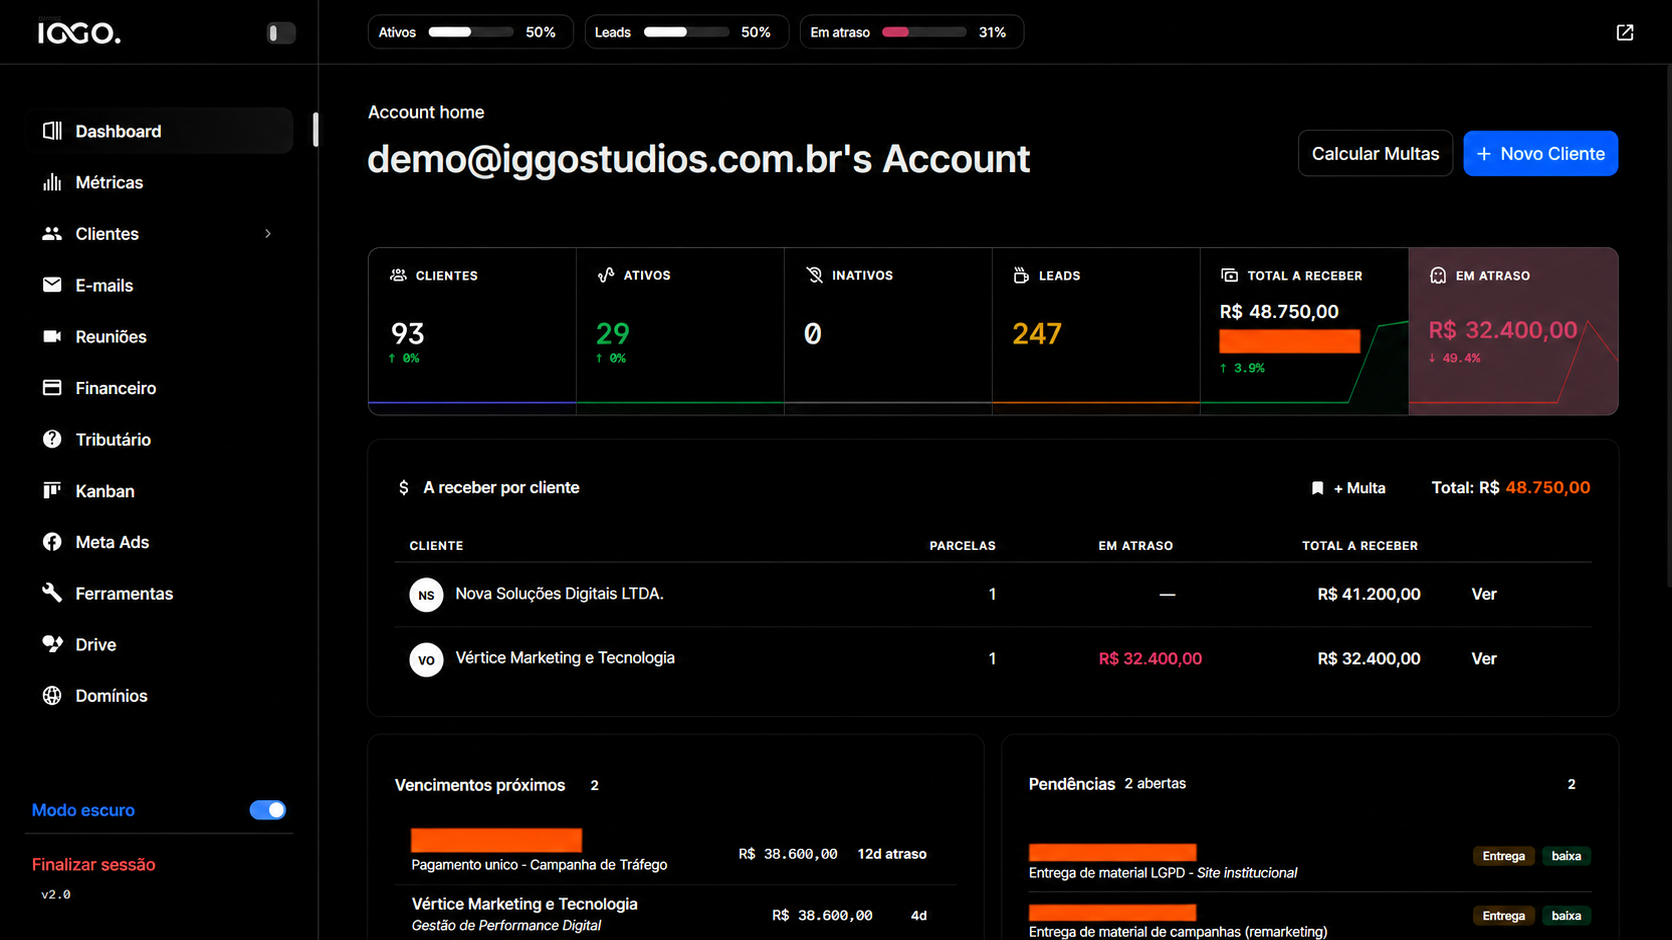
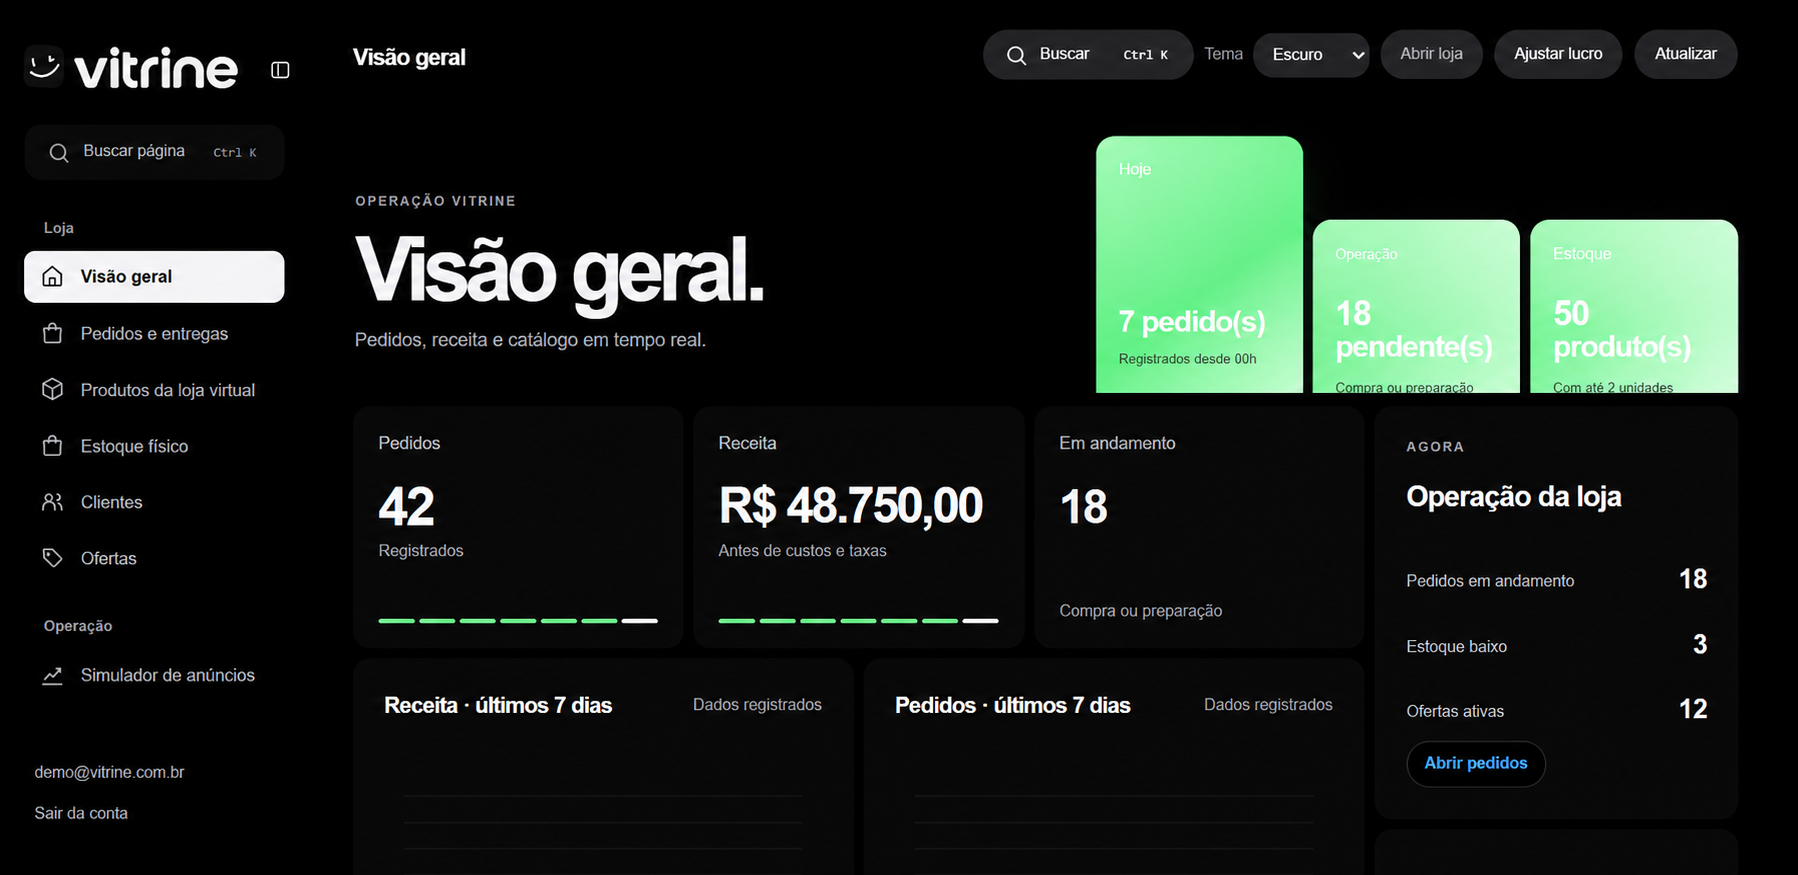
Use Vitrine dashboard showcase image

diff --git a/index.html b/index.html
@@ -521,7 +521,7 @@
         <section class="zoom-parallax" data-zoom-parallax aria-label="Portfólio visual IGGO">
           <div class="zoom-parallax__sticky">
             <div class="zoom-parallax__layer" data-zoom-scale="4"><figure class="zoom-parallax__frame"><img src="/img/zoom-parallax/01.webp" alt="Retrato editorial IGGO"></figure></div>
-            <div class="zoom-parallax__layer" data-zoom-scale="5"><figure class="zoom-parallax__frame"><img src="/img/zoom-parallax/crm-vitrine-demo.png" alt="Dashboard demonstrativo do CRM IGGO com valores fictícios"></figure></div>
+            <div class="zoom-parallax__layer" data-zoom-scale="5"><figure class="zoom-parallax__frame"><img src="/img/zoom-parallax/crm-vitrine-demo.png" alt="Dashboard demonstrativo do Vitrine com valores fictícios"></figure></div>
             <div class="zoom-parallax__layer" data-zoom-scale="6"><figure class="zoom-parallax__frame"><img src="/img/zoom-parallax/03.webp" alt="Fotografia arquitetônica"></figure></div>
             <div class="zoom-parallax__layer" data-zoom-scale="5"><figure class="zoom-parallax__frame"><img src="/img/zoom-parallax/04.webp" alt="Experimentação visual com inteligência artificial"></figure></div>
             <div class="zoom-parallax__layer" data-zoom-scale="6"><figure class="zoom-parallax__frame"><img src="/img/zoom-parallax/05.webp" alt="Projeto digital Alex Junior"></figure></div>
